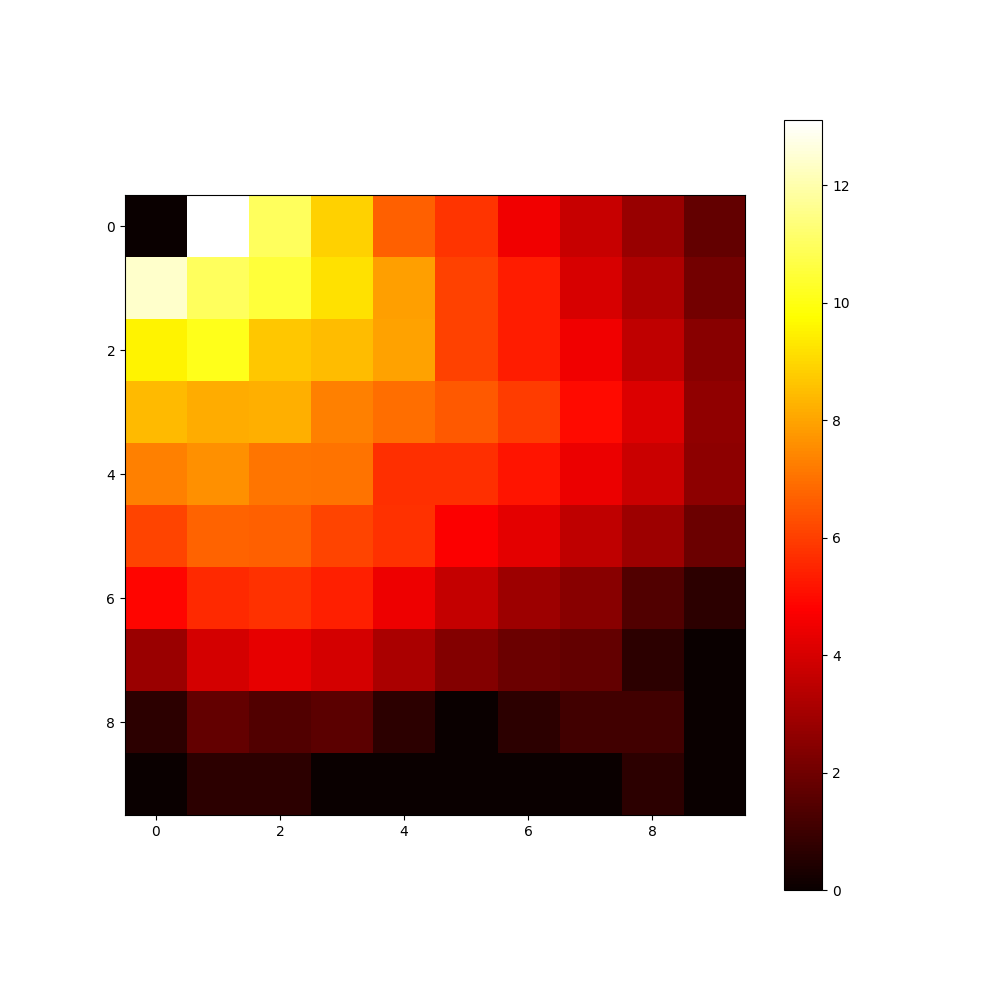
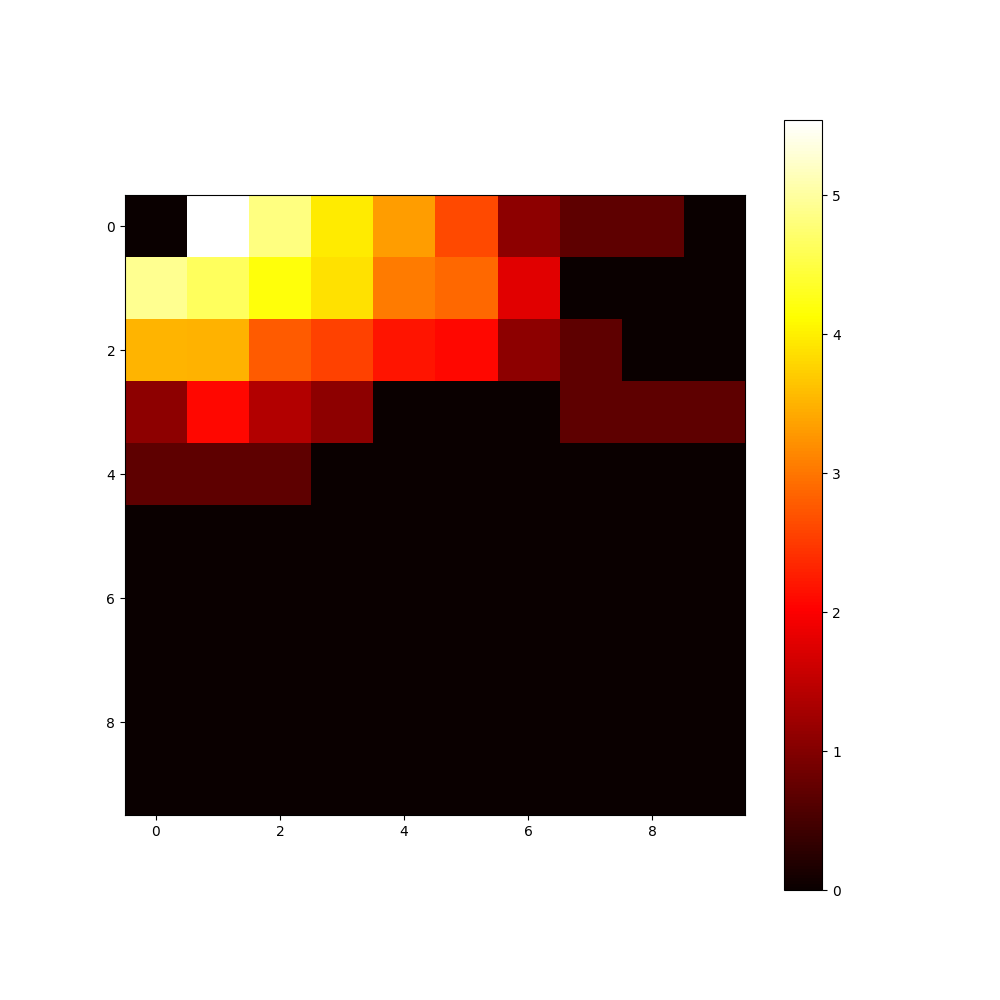
deepq

diff --git a/proof_of_work/qlearning/deep_q_agent.py b/proof_of_work/qlearning/deep_q_agent.py
@@ -1,0 +1,177 @@
+from reduced_environment import Environment as e 
+from keras.models import Sequential
+from keras.layers import Dense
+from keras.optimizers import Adam
+import matplotlib.pyplot as plt
+import numpy as np
+np.random.seed(0)
+
+class DeepQLearningAgent(object):
+    def __init__(self, discount, alpha, T, rho):
+        self.discount = discount
+        self.env = None
+        self.alpha = alpha
+        self.T = T
+        self.rho = rho
+        self.learning_rate = 0.001 
+        self.initial_exploration_rate = 0.995
+        self.min_exploration_rate = 0.1
+        self.states_visited = np.zeros((self.T+1, self.T+1))
+
+        # initialize state mapping and states
+        self.state_mapping = {}
+        self.states = []
+        count = 0
+        for a in range(T+1):
+            for h in range(T+1):
+                self.state_mapping[(a, h)] = count
+                self.states.append((a, h))
+                count += 1
+        
+        # deep q
+        self.model = None
+        self.memories = []
+        self.training_memory_count = 50
+    
+    def initializeModel(self):
+        model = Sequential()
+        model.add(Dense(24, input_dim=2, activation='relu'))
+        model.add(Dense(24, activation='relu'))
+        model.add(Dense(3, activation='linear'))
+        model.compile(loss='mse', optimizer=Adam(lr=self.learning_rate))
+        self.model = model
+    
+    def chooseAction(self, current_state):
+        legal_actions = self.env.getLegalActions()
+        state_index = self.state_mapping[current_state]
+        # explore
+        current_explore_rate = np.power(self.initial_exploration_rate, self.states_visited[current_state])
+        if current_explore_rate < self.min_exploration_rate:
+            current_explore_rate = self.min_exploration_rate
+        if np.random.uniform() < current_explore_rate:
+            return np.random.choice(legal_actions)
+       
+        # exploit
+        current_action = -1
+        current_value = float("-inf")
+        action_values = self.model.predict(np.reshape(np.asarray(current_state), (1,2)))
+        for action in legal_actions:
+            new_value = action_values[0][action]
+            if new_value > current_value:
+                current_action = action
+                current_value = new_value
+        return current_action
+    
+    def evalReward(self, reward):
+        return (1 - self.rho) * reward[0] - self.rho * reward[1]
+
+    def runTrial(self, iterations):
+        self.env = e(self.alpha, self.T)
+        self.initializeModel()
+        for _ in range(iterations):
+            current_state_tuple = self.env.current_state.getTupleRepresentation()
+            self.states_visited[current_state_tuple] += 1
+            action = self.chooseAction(current_state_tuple)
+            print('current_state: ', self.env.current_state, ' -- action: ', action)
+            new_state, reward = self.env.takeAction(action)
+            print('new_state: ', new_state, ' -- reward: ', reward)
+            reward_value = self.evalReward(reward)
+            
+            # creating a new memory
+            memory = dict({
+                'current_state' : current_state_tuple,
+                'action' : action,
+                'reward' : reward_value,
+                'new_state' : new_state.getTupleRepresentation()
+            })
+            self.memories.append(memory)
+
+            # training network
+            if len(self.memories) > self.training_memory_count:
+                self.trainNeuralNet()
+            if len(self.memories) > 3000:
+                self.memories.pop(0)
+    
+    def trainNeuralNet(self):
+        memory_subset = np.random.choice(self.memories, self.training_memory_count, replace=False)
+        training_data, training_target = [], []
+        for memory in memory_subset:
+            total_reward = memory['reward']
+            total_reward += self.discount * max(self.model.predict(self.prepareInput(memory['new_state']))[0])
+            target = self.model.predict(self.prepareInput(memory['current_state']))
+            
+            # this modifies the prediction to have new value for the action taken
+            target[0][memory['action']] = total_reward
+            training_data.append(memory['current_state'])
+            training_target.append(target)
+
+        # fiting model --- this is the neural net training 
+        self.model.fit(
+            np.squeeze(np.asarray(training_data)), 
+            np.squeeze(np.asarray(training_target)), 
+            epochs=1, 
+            verbose=False)
+    
+    def prepareInput(self, state):
+        return np.reshape(np.asarray(state), (1,2))
+            
+    def extractPolicy(self):
+        policy = []
+        for state in self.states:
+            a, h = state
+            # any action is legal
+            if a > h:
+                max_action = np.argmax(self.model.predict(self.prepareInput(state))[0])
+            else:
+                arg_sorted = np.argsort(self.model.predict(self.prepareInput(state))[0])
+                # override not legal
+                if arg_sorted[0] == 1:
+                    max_action = arg_sorted[1]
+                else:
+                    max_action = arg_sorted[0]
+            policy.append(max_action)
+        return policy
+
+    def processPolicy(self, policy):
+        results = ''
+        print(policy)
+        for a in range(9):
+            results += '{} & '.format(a)
+            for h in range(9):
+                state_index = self.state_mapping[(a, h)]
+                action = policy[state_index]
+                assert(action in [0, 1, 2])
+                if action == 0:
+                    results += 'a'
+                elif action == 1:
+                    results += 'o'
+                else:
+                    results += 'w'
+                results += ' & '
+            results = results[:-2]
+            results += '\\\\ \n'
+        print(results)
+    
+    def plotStatesVisited(self):
+        f, ax = plt.subplots(figsize=(10,10))
+        im = ax.imshow(self.states_visited, cmap='hot', interpolation='nearest')
+        f.colorbar(im)
+        plt.savefig('states_visited.png')
+        plt.show()
+    
+    def plotLogStatesVisited(self):
+        f, ax = plt.subplots(figsize=(10,10))
+        im = ax.imshow(np.log(self.states_visited+1), cmap='hot', interpolation='nearest')
+        f.colorbar(im)
+        plt.savefig('log_states_visited.png')
+        plt.show()
+
+def main():
+    qlagent = DeepQLearningAgent(discount=1, alpha=1/3, T=9 , rho=0.33657073974609375)
+    qlagent.runTrial(iterations=int(1000*10))
+    qlagent.processPolicy(qlagent.extractPolicy())
+    qlagent.plotStatesVisited()
+    qlagent.plotLogStatesVisited()
+
+if __name__ == "__main__":
+    main()
